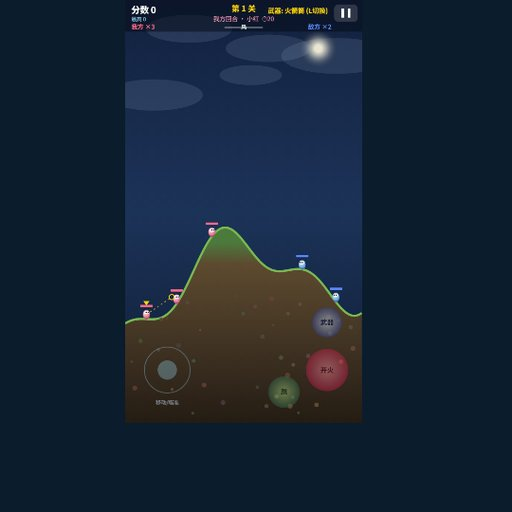
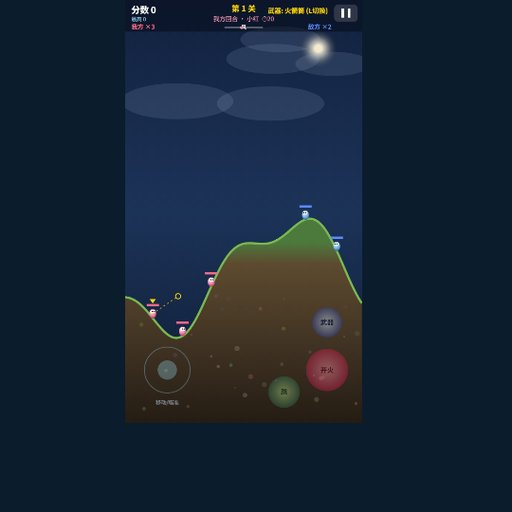
fix: 缩略图去黑边裁切并修复坦克大战玩法截图
按画面内容 trim 后再裁正方形；坦克 thumb=1 同步进关；展示格保持 cover 铺满。

Changed region(s): [[0.2188, 0.375, 0.7188, 0.6562], [0.4062, 0.1875, 0.4688, 0.2188]]

diff --git a/public/js/admin/game-thumbs.js b/public/js/admin/game-thumbs.js
@@ -77,6 +77,46 @@
     });
   }
 
+  function trimCanvasSource(canvas) {
+    var w = canvas.width;
+    var h = canvas.height;
+    var ctx = canvas.getContext('2d');
+    if (!ctx) return canvas;
+    var data = ctx.getImageData(0, 0, w, h).data;
+    var thr = 72;
+    var minX = w;
+    var minY = h;
+    var maxX = 0;
+    var maxY = 0;
+    var found = false;
+    for (var y = 0; y < h; y++) {
+      for (var x = 0; x < w; x++) {
+        var i = (y * w + x) * 4;
+        var sum = data[i] + data[i + 1] + data[i + 2];
+        if (sum > thr) {
+          found = true;
+          if (x < minX) minX = x;
+          if (y < minY) minY = y;
+          if (x > maxX) maxX = x;
+          if (y > maxY) maxY = y;
+        }
+      }
+    }
+    if (!found) return canvas;
+    var pad = 6;
+    minX = Math.max(0, minX - pad);
+    minY = Math.max(0, minY - pad);
+    maxX = Math.min(w - 1, maxX + pad);
+    maxY = Math.min(h - 1, maxY + pad);
+    var tw = maxX - minX + 1;
+    var th = maxY - minY + 1;
+    var out = document.createElement('canvas');
+    out.width = tw;
+    out.height = th;
+    out.getContext('2d').drawImage(canvas, minX, minY, tw, th, 0, 0, tw, th);
+    return out;
+  }
+
   function cropCover(img, w, h) {
     var c = document.createElement('canvas');
     c.width = w;
@@ -198,7 +238,7 @@
   function captureFromDoc(doc) {
     var canvas = doc.querySelector('canvas');
     if (canvas) {
-      return Promise.resolve(cropCover(canvas, THUMB_W, THUMB_H));
+      return Promise.resolve(cropCover(trimCanvasSource(canvas), THUMB_W, THUMB_H));
     }
     var target = doc.querySelector('.game-board-wrap, .klotski-board, .puzzle-board, #board, #wrap');
     if (!target) target = doc.body;

diff --git a/public/html/game/tank_battle.html b/public/html/game/tank_battle.html
@@ -2836,6 +2836,33 @@ const Game = (() => {
     drawFrame();
     requestAnimationFrame(loop);
   }
+  if (/[?&]thumb=1(?:&|$)/.test(location.search)) {
+    menuSel = 0;
+    endless = false;
+    enemyLootMode = false;
+    debugMode = false;
+    coopMode = false;
+    newLevel();
+    stateName = "playing";
+    flashMsg = "";
+    flashTime = 0;
+    drawFrame();
+  }
+  window.__tbThumbAutoStart = function () {
+    if (stateName !== "playing") {
+      menuSel = 0;
+      endless = false;
+      enemyLootMode = false;
+      debugMode = false;
+      coopMode = false;
+      newLevel();
+      stateName = "playing";
+      flashMsg = "";
+      flashTime = 0;
+    }
+    window.__tbThumbStateName = stateName;
+    drawFrame();
+  };
   requestAnimationFrame(loop);
 
   return {
@@ -3129,19 +3156,6 @@ const Game = (() => {
   }
 
   layout();
-
-  window.__tbThumbAutoStart = function () {
-    if (stateName === "menu") {
-      menuSel = 0;
-      endless = false;
-      enemyLootMode = false;
-      debugMode = false;
-      coopMode = false;
-      newLevel();
-      stateName = "playing";
-    }
-    window.__tbThumbStateName = stateName;
-  };
 })();
 </script>
 <script src="../../js/game/thumb-preview.js"></script>

diff --git a/public/games.html b/public/games.html
@@ -47,7 +47,7 @@
     <script src="js/i18n.js?v=minimax1"></script>
     <script src="js/config.js?v=games7"></script>
     <script src="js/common_ui.js?v=minimax1"></script>
-    <script src="js/games-hub.js?v=games13"></script>
+    <script src="js/games-hub.js?v=games14"></script>
     <script>
       (function () {
         function go() { if (typeof renderGamesHub === 'function') renderGamesHub(); }

diff --git a/public/js/games-hub.js b/public/js/games-hub.js
@@ -33,7 +33,7 @@
         var url = item.url || '';
         var m = url.match(/html\/game\/([^/?]+)\.html/i);
         if (!m) return '';
-        return 'assets/game/thumbs/' + m[1] + '.jpg?v=6';
+        return 'assets/game/thumbs/' + m[1] + '.jpg?v=8';
     }
 
     function bindSearch(toolbarEl) {

diff --git a/public/html/admin/private/ladder-update.html b/public/html/admin/private/ladder-update.html
@@ -96,6 +96,6 @@
   </main>
 
   <script src="../../../js/admin/ladder-update.js?v=gameThumbs1"></script>
-  <script src="../../../js/admin/game-thumbs.js?v=gameThumbs5"></script>
+  <script src="../../../js/admin/game-thumbs.js?v=gameThumbs6"></script>
 </body>
 </html>

diff --git a/deploy/capture-game-thumbs.py b/deploy/capture-game-thumbs.py
@@ -87,9 +87,40 @@ def capture_png(browser: Path, url: str, dest: Path, budget_ms: int) -> None:
         raise RuntimeError(f"Screenshot too small or missing: {tmp}")
 
 
+def content_bbox(im: Image.Image, threshold: int = 22) -> tuple[int, int, int, int]:
+    """Trim letterbox/pillarbox before square crop."""
+    rgb = im.convert("RGB")
+    w, h = rgb.size
+    px = rgb.load()
+    min_x, min_y = w, h
+    max_x, max_y = 0, 0
+    found = False
+    thr = threshold * 3
+    for y in range(h):
+        for x in range(w):
+            r, g, b = px[x, y]
+            if r + g + b > thr:
+                found = True
+                min_x = min(min_x, x)
+                min_y = min(min_y, y)
+                max_x = max(max_x, x)
+                max_y = max(max_y, y)
+    if not found:
+        return 0, 0, w, h
+    pad = 6
+    return (
+        max(0, min_x - pad),
+        max(0, min_y - pad),
+        min(w, max_x + 1 + pad),
+        min(h, max_y + 1 + pad),
+    )
+
+
 def to_thumb(src_png: Path, dest_jpg: Path) -> None:
     with Image.open(src_png) as im:
         im = im.convert("RGB")
+        box = content_bbox(im)
+        im = im.crop(box)
         w, h = im.size
         side = min(w, h)
         left = (w - side) // 2
@@ -138,7 +169,7 @@ def main() -> int:
     args = parser.parse_args()
 
     mode = "menu" if args.menu else "play"
-    budget = args.budget or (5000 if mode == "menu" else 10000)
+    budget = args.budget or (5000 if mode == "menu" else 14000)
 
     slugs = args.only if args.only else game_slugs()
     if not slugs:
